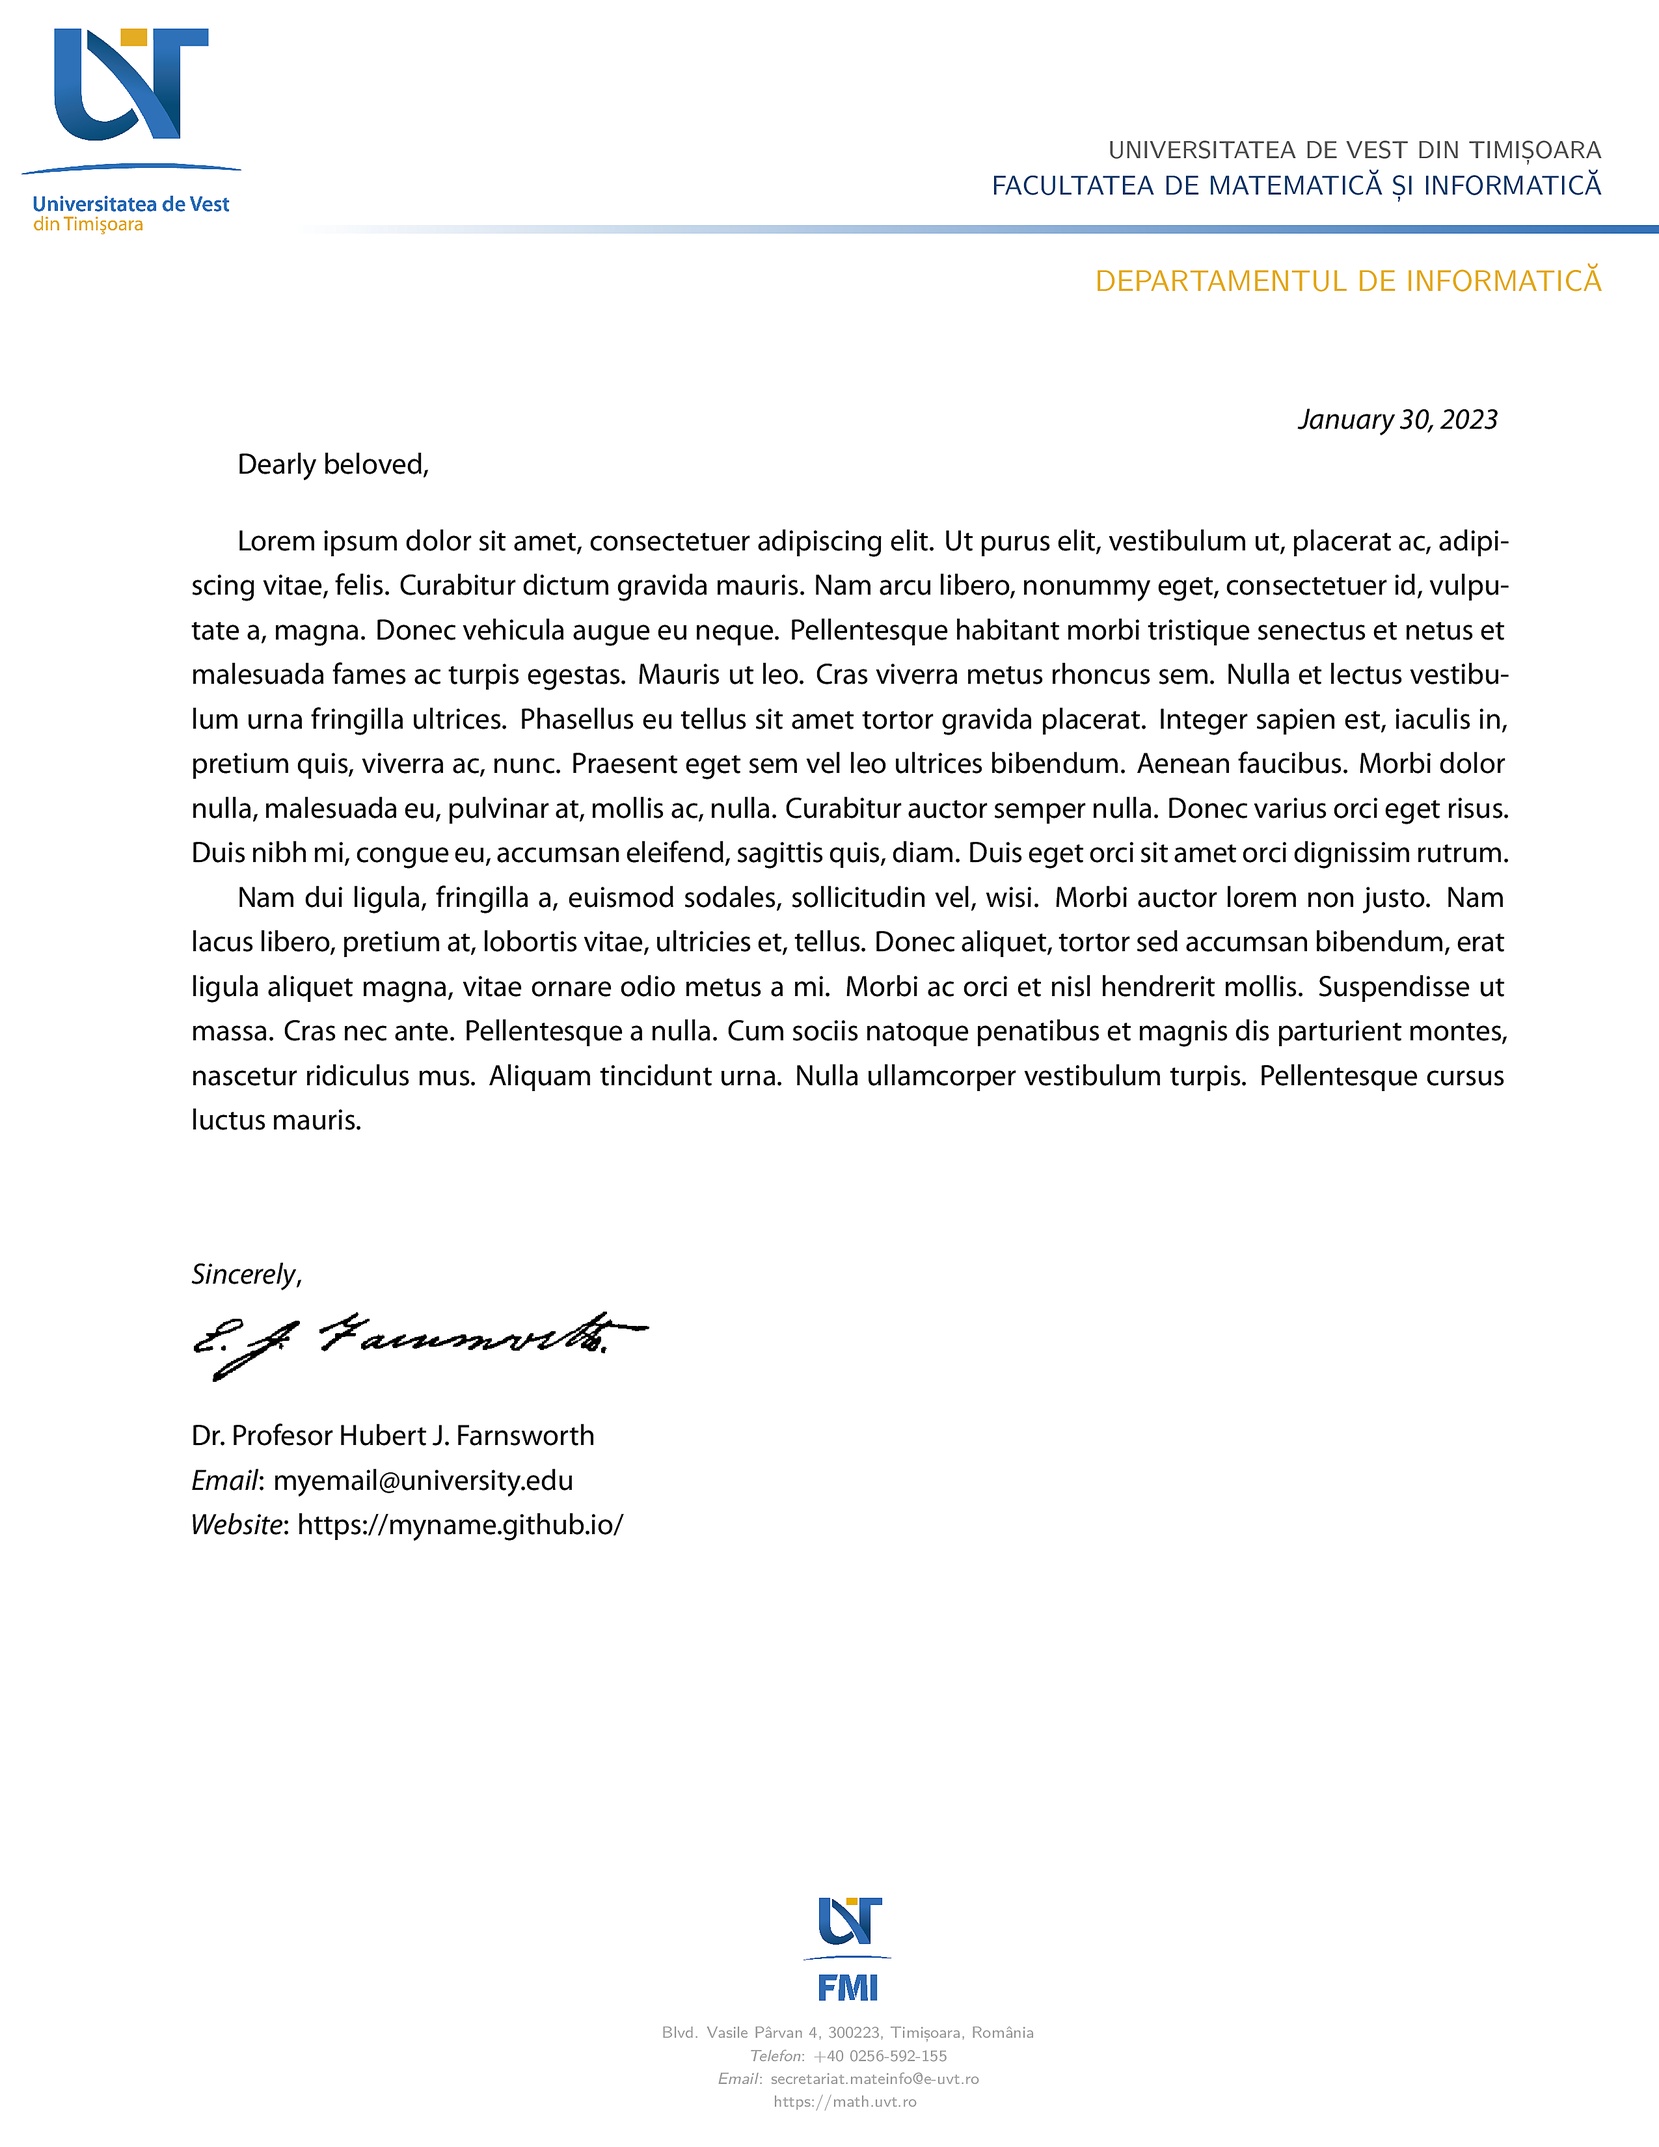
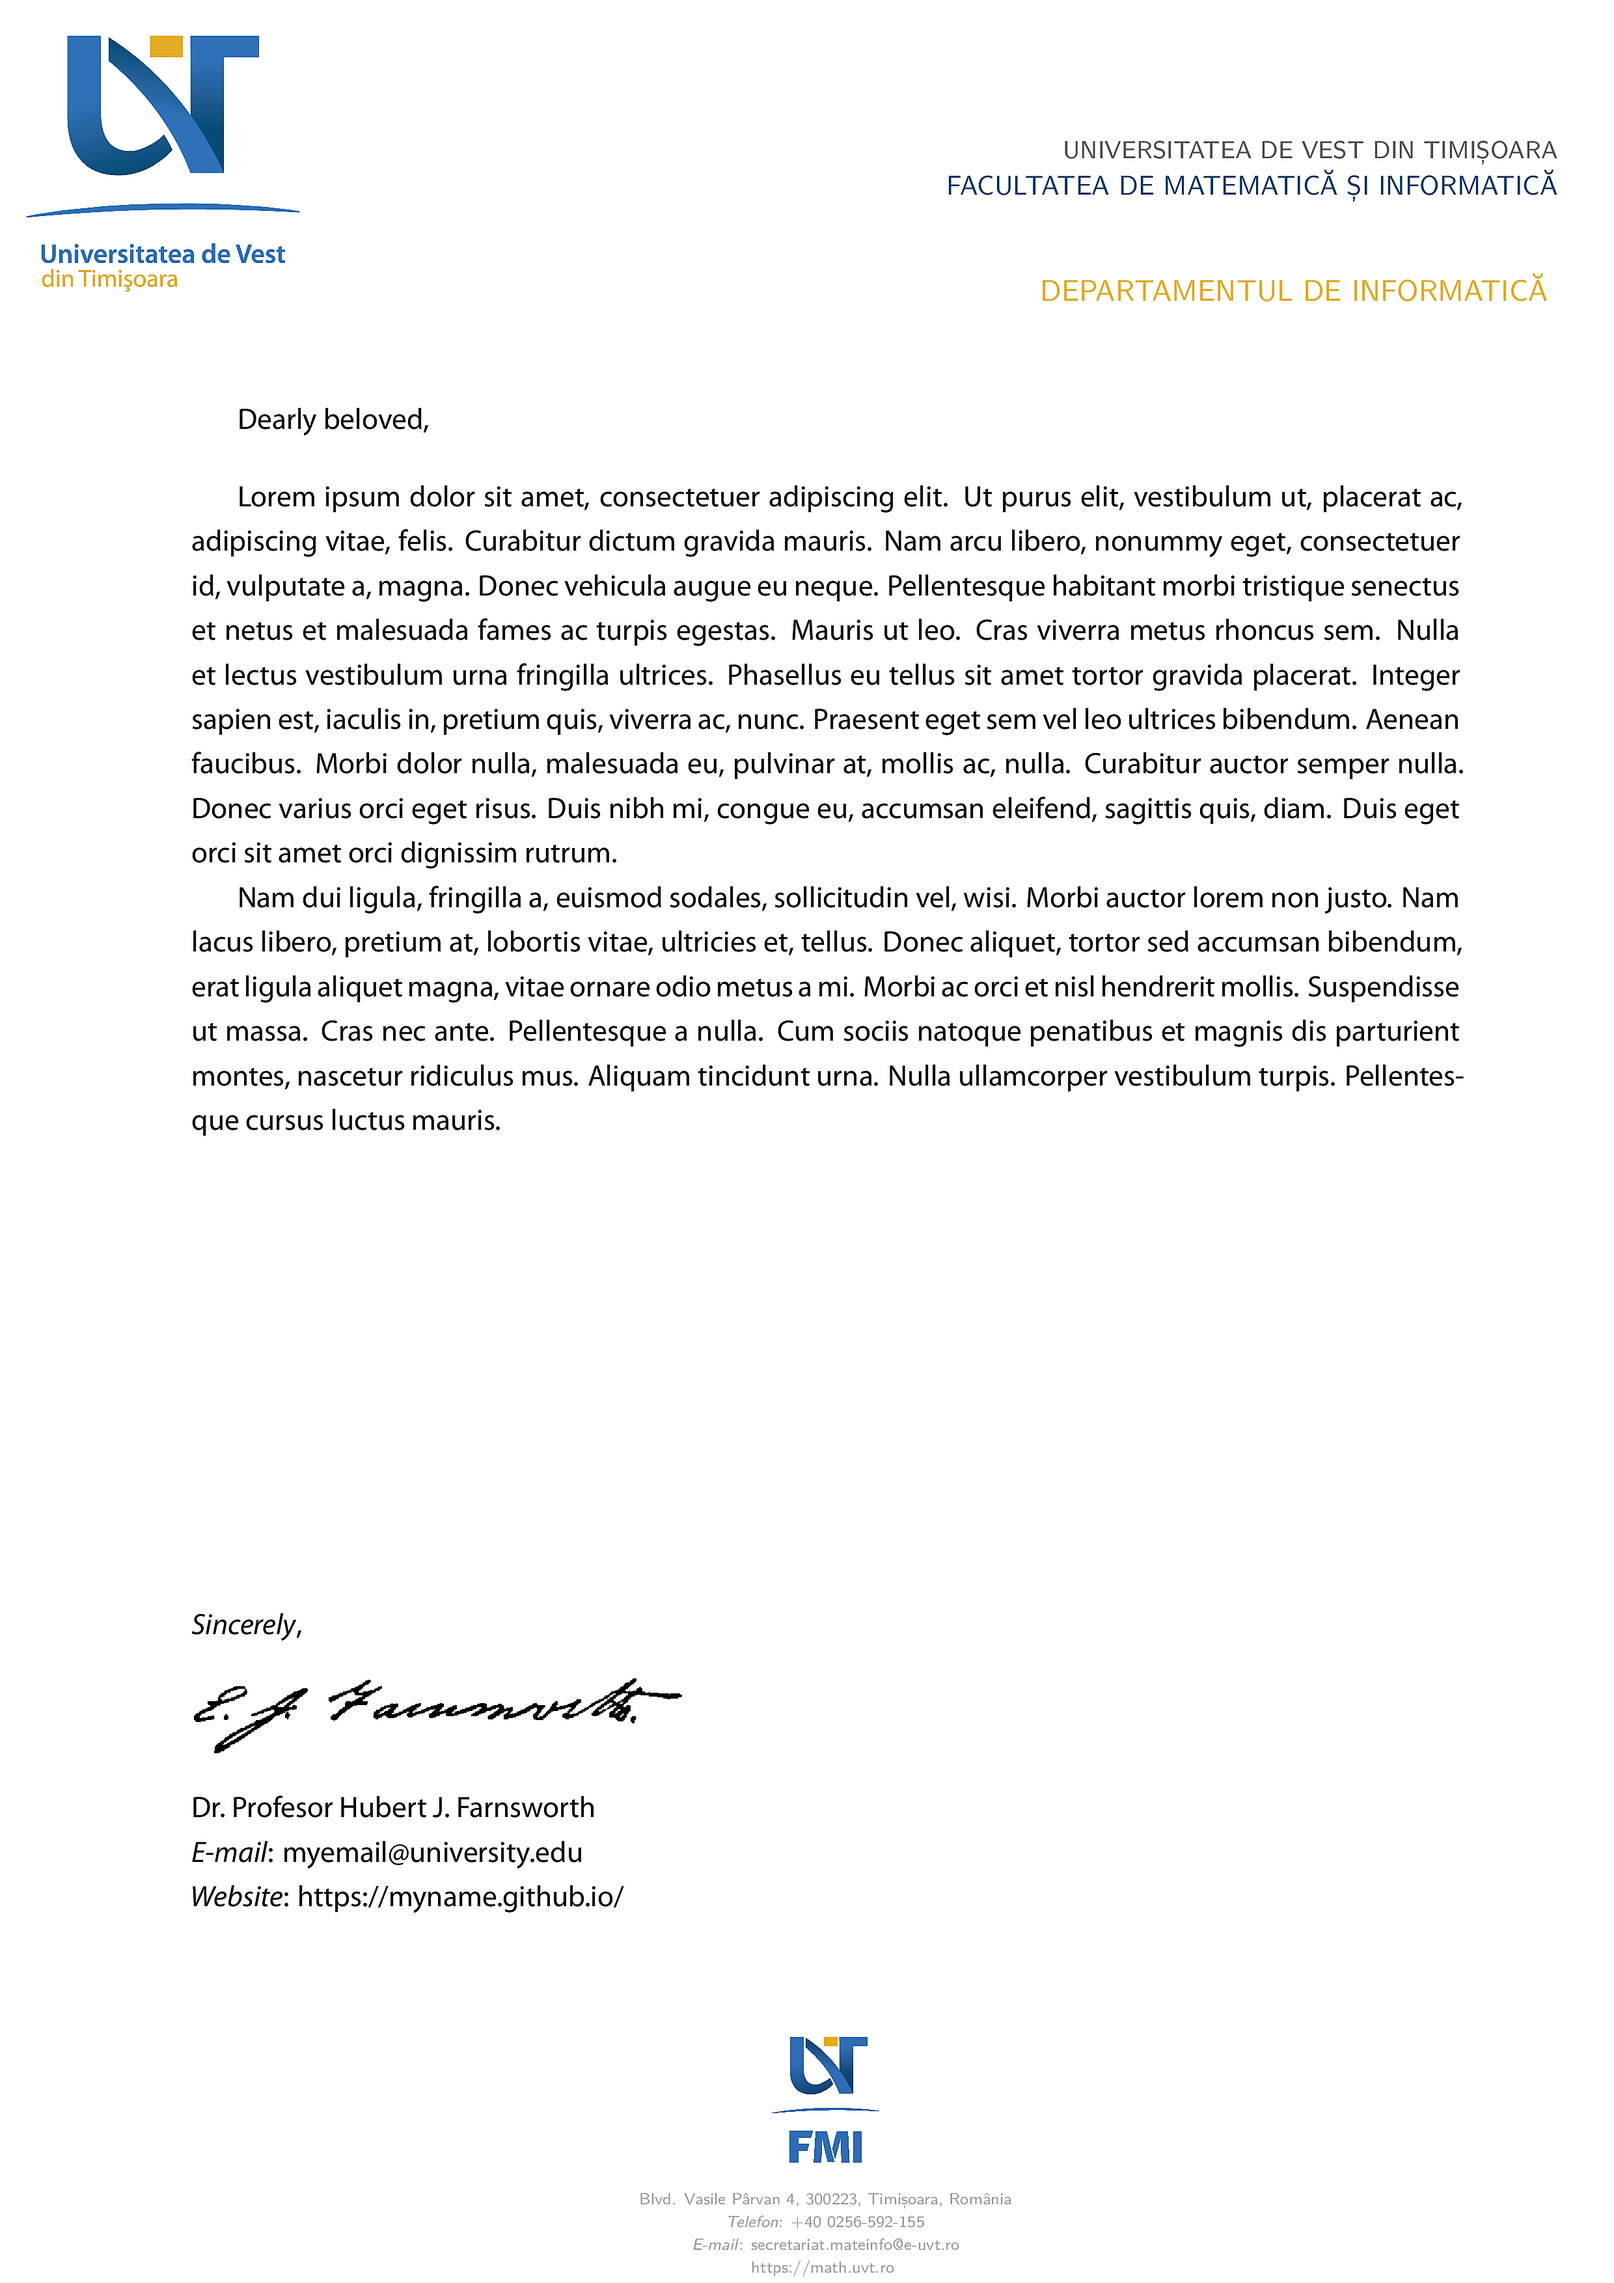
improve header spacing in different modes

diff --git a/template.tex b/template.tex
@@ -1,4 +1,4 @@
-\documentclass[11pt]{article}
+\documentclass[11pt, a4paper]{article}
 
 \usepackage[department=fmi]{uvt-letterhead}
 
@@ -38,5 +38,8 @@ Dearly beloved,
 \bigskip
 
 \lipsum[1-2]
+
+\vfill
+\uvtcloseletter
 
 \end{document}

diff --git a/README.md b/README.md
@@ -41,6 +41,14 @@ The standard branding colors are given below.
 | `UVTDarkBlue`                     | ![#024A76](https://placehold.co/15x15/024A76/024A76.png) `(3, 75, 119)`   |
 | `UVTOrange`                       | ![#E3AB23](https://placehold.co/15x15/E3AB23/E3AB23.png) `(228, 172, 36)` |
 
+The following helper macros are defined for some standard functionality.
+
+| Macro                             | Description                           |
+| :-                                | :-                                    |
+| `\uvtdate`                        | Current date formatted in `DD.MM.YYYY`|
+| `\uvtcloseletter`                 | Adds a standard letter signature on the right |
+| `\uvtcloseform`                   | Adds date on the left and name on the right |
+
 The following commands are available to define the department, author, etc.
 
 | Command                           | Description                           |
